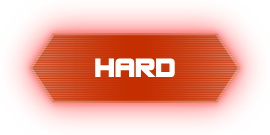
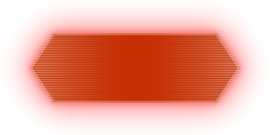
UI updated

Changed region(s): [[0.3259, 0.4148, 0.6519, 0.5926]]

diff --git a/assets/scripts/ScreenMainMenu.js b/assets/scripts/ScreenMainMenu.js
@@ -1995,6 +1995,10 @@ NORD.subModeSelectionPopup.prototype.disableAllButtons = function() {
 NORD.subModeSelectionPopup.prototype.show = function(data) {
   var config = NORD.game.config;
 
+  var NormalPlay = PIXI.Texture.fromFrame('PlayButton');
+  var RandomPlay = PIXI.Texture.fromFrame('RandomPlayButton');
+  this.playButton.regularSkin.texture = NormalPlay;
+
   this.switchNormalMode.visible = true;
   this.switchThrillerMode.visible = true;
   this.switchRegion.visible = false;
@@ -2010,6 +2014,8 @@ NORD.subModeSelectionPopup.prototype.show = function(data) {
     this.loadingIndicator.visible = true;
     this.transparentLayer.visible = true;
     this.loaderTextData.visible = true;
+    this.playButton.regularSkin.texture = RandomPlay;
+
 
     this.disableAllButtons();
   } else
@@ -2106,6 +2112,7 @@ NORD.subModeSelectionPopup.prototype.createSwitcher = function(x, y, labelName, 
           aX: 0.5,
           aY: 0.5
         },
+        spriteOnText: 'EASY',
         spriteOffText: 'EASY'
       },
       center: {
@@ -2119,6 +2126,7 @@ NORD.subModeSelectionPopup.prototype.createSwitcher = function(x, y, labelName, 
           aX: 0.5,
           aY: 0.5
         },
+        spriteOnText: 'MEDIUM',
         spriteOffText: 'MEDIUM'
       },
       right: {
@@ -2132,6 +2140,7 @@ NORD.subModeSelectionPopup.prototype.createSwitcher = function(x, y, labelName, 
           aX: 0.5,
           aY: 0.5
         },
+        spriteOnText: 'HARD',
         spriteOffText: 'HARD'
       }
     };

diff --git a/assets/scripts/App.js b/assets/scripts/App.js
@@ -459,6 +459,10 @@ NORD.initGameDefinitions = function () {
   {
     name: 'PlayerRight',
     url: 'assets/images/popup/PlayerRight.png'
+  },
+  {
+    name: 'RandomPlayButton',
+    url: 'assets/images/submode/RandomPlayButton.png'
   }
   ]);
 }; //=========================================================================================================================================================================//
